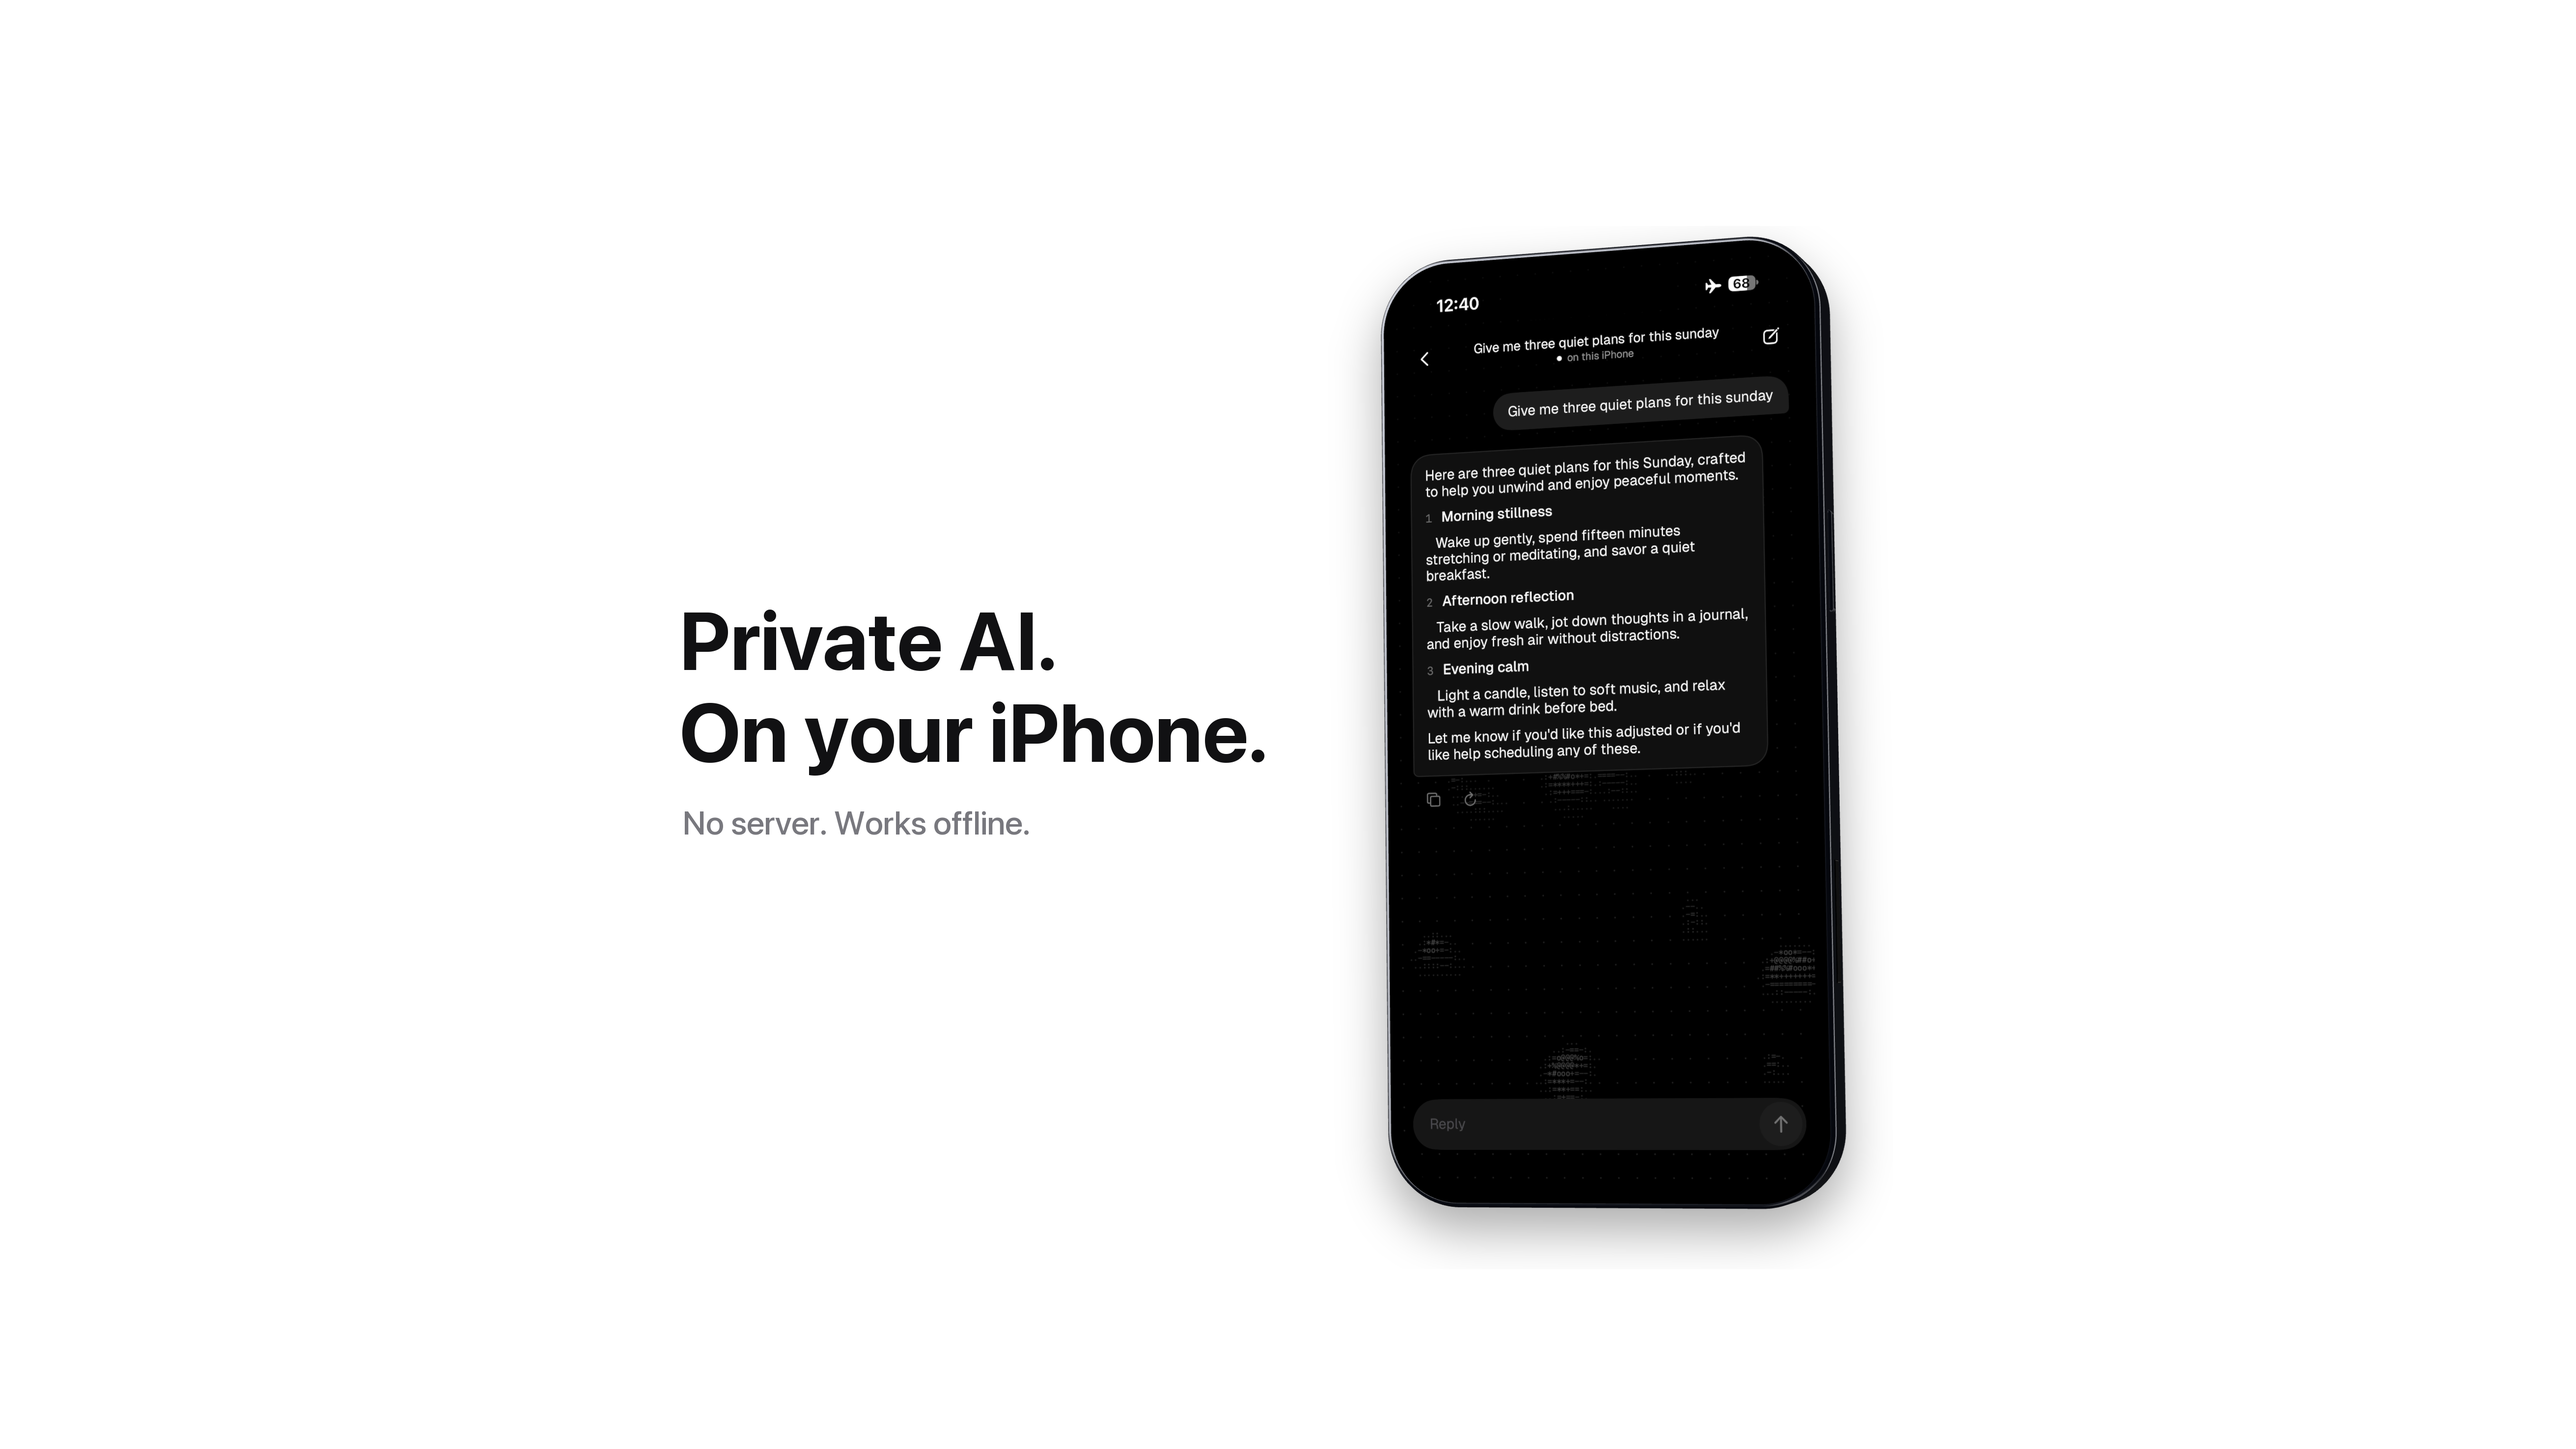
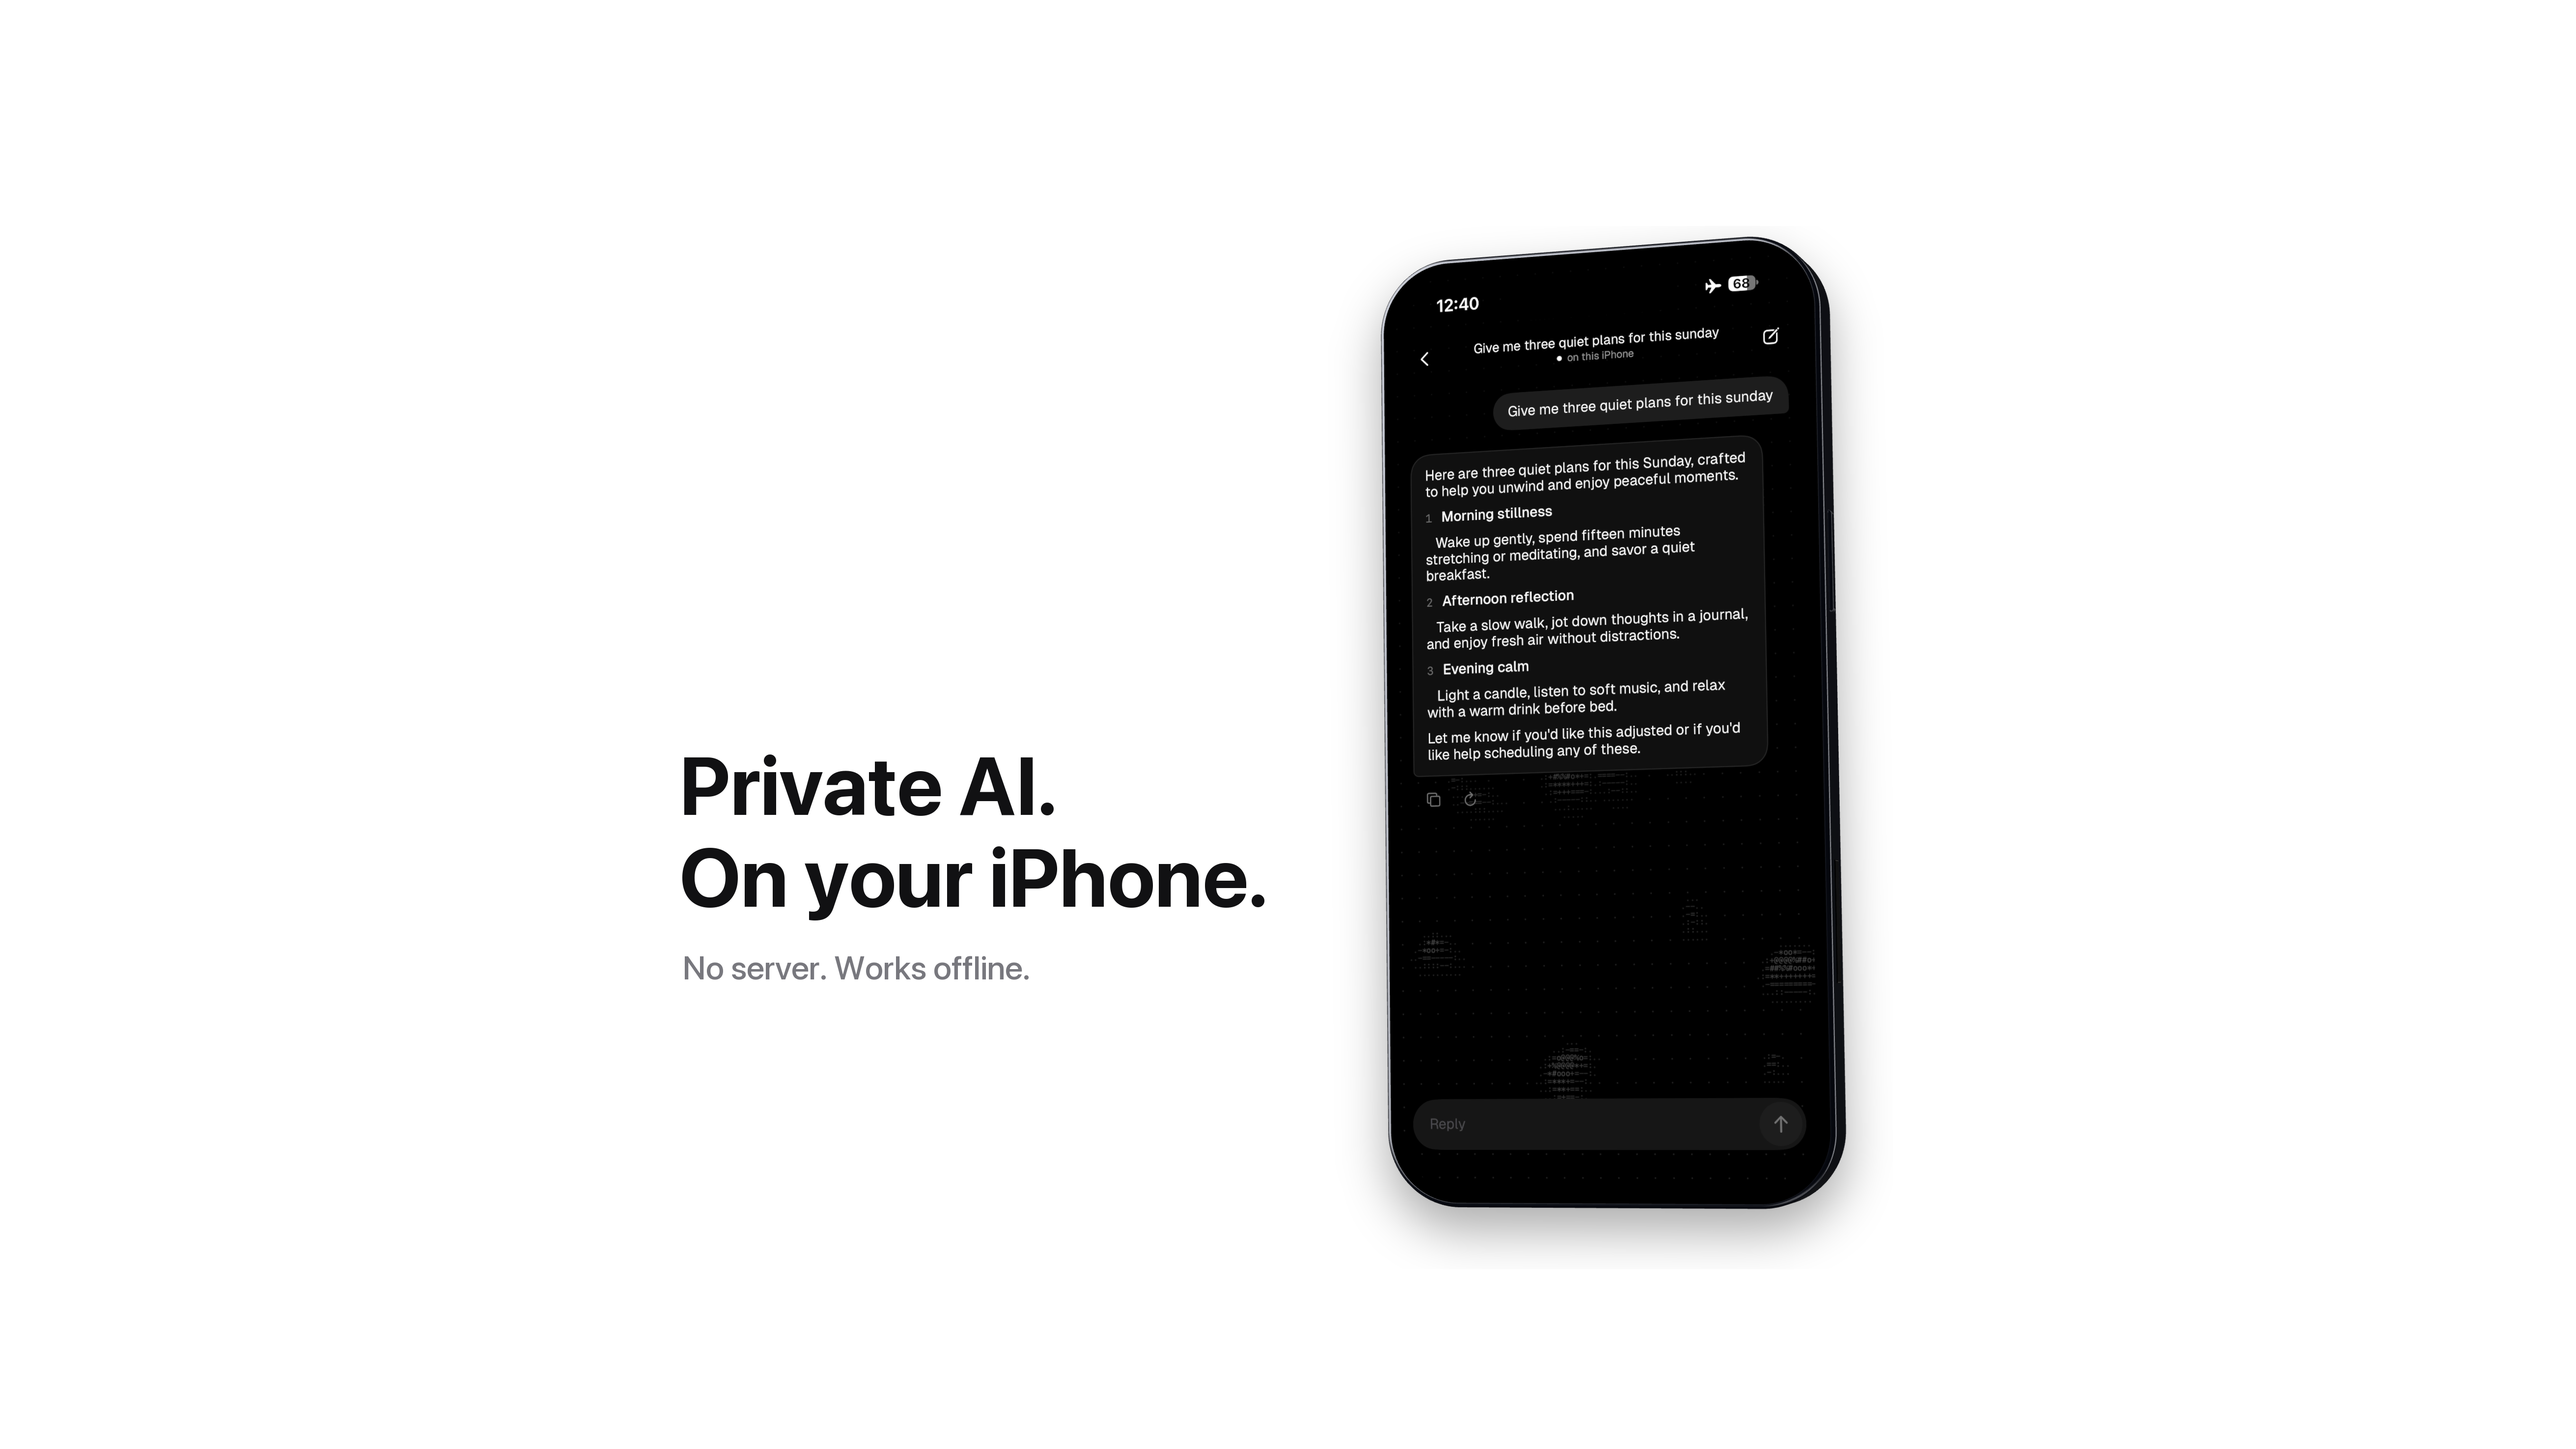
Header text lower in universal image

Changed region(s): [[0.2487, 0.4054, 0.4973, 0.6237], [0.2487, 0.6549, 0.4041, 0.6861]]

diff --git a/quietgpt-promo/store/header.py b/quietgpt-promo/store/header.py
@@ -18,9 +18,9 @@ PHONE_W, PHONE_H = 1200, 2200
 POSE = {"yaw": -16, "tilt": 4, "roll": 2, "fill": 0.97, "island": True}
 
 SPECS = {
-    "header": {"size": (3840, 1646), "safe": 0.58, "band": (0.13, 0.95), "body": 1, "chips": False},
-    "search": {"size": (3840, 2560), "safe": 0.9, "band": (0.07, 0.95), "body": 2, "chips": True},
-    "universal": {"size": (5244, 2950), "safe": 0.47, "band": (0.14, 0.86), "body": 1, "chips": False},
+    "header": {"size": (3840, 1646), "safe": 0.58, "band": (0.13, 0.95), "body": 1, "chips": False, "drop": 0.07},
+    "search": {"size": (3840, 2560), "safe": 0.9, "band": (0.07, 0.95), "body": 2, "chips": True, "drop": 0.0},
+    "universal": {"size": (5244, 2950), "safe": 0.47, "band": (0.14, 0.86), "body": 1, "chips": False, "drop": 0.1},
 }
 
 TEXT = {
@@ -49,7 +49,7 @@ def render_phones(jobs):
     path = PROMO / "build" / "store-header-jobs.json"
     path.parent.mkdir(parents=True, exist_ok=True)
     path.write_text(json.dumps([{**POSE, **j, "width": PHONE_W, "height": PHONE_H} for j in jobs]))
-    subprocess.run(["node", str(PROMO / "render3d" / "still.mjs"), str(path)], check=True, cwd=PROMO,
+    subprocess.run(["node", str(PROMO / "promo-39s" / "render3d" / "still.mjs"), str(path)], check=True, cwd=PROMO,
                    stdout=subprocess.DEVNULL)
 
 
@@ -74,7 +74,7 @@ class Layout:
         body = t["body"] if spec["body"] == 2 else [t["short"]]
         probe = ImageDraw.Draw(Image.new("RGB", (1, 1)))
         size = band * 0.2
-        while max(probe.textlength(l, font=font(size, "Bold")) for l in lines) > text_w:
+        while max(probe.textlength(l, font=font(size, "Bold")) for v in TEXT.values() for l in v["title"]) > text_w:
             size -= 2
         body_size = size * 0.4
         chip_size = size * 0.3
@@ -84,7 +84,7 @@ class Layout:
         block = title_lh * len(lines) + size * 0.35 + body_lh * len(body)
         if spec["chips"]:
             block += size * 0.45 + chip_size * 2
-        y = y0 + (band - block) / 2 + size * 0.9
+        y = y0 + (band - block) / 2 + size * 0.9 + self.h * spec["drop"]
 
         self.base = Image.new("RGB", (self.w, self.h), BG)
         d = ImageDraw.Draw(self.base)
